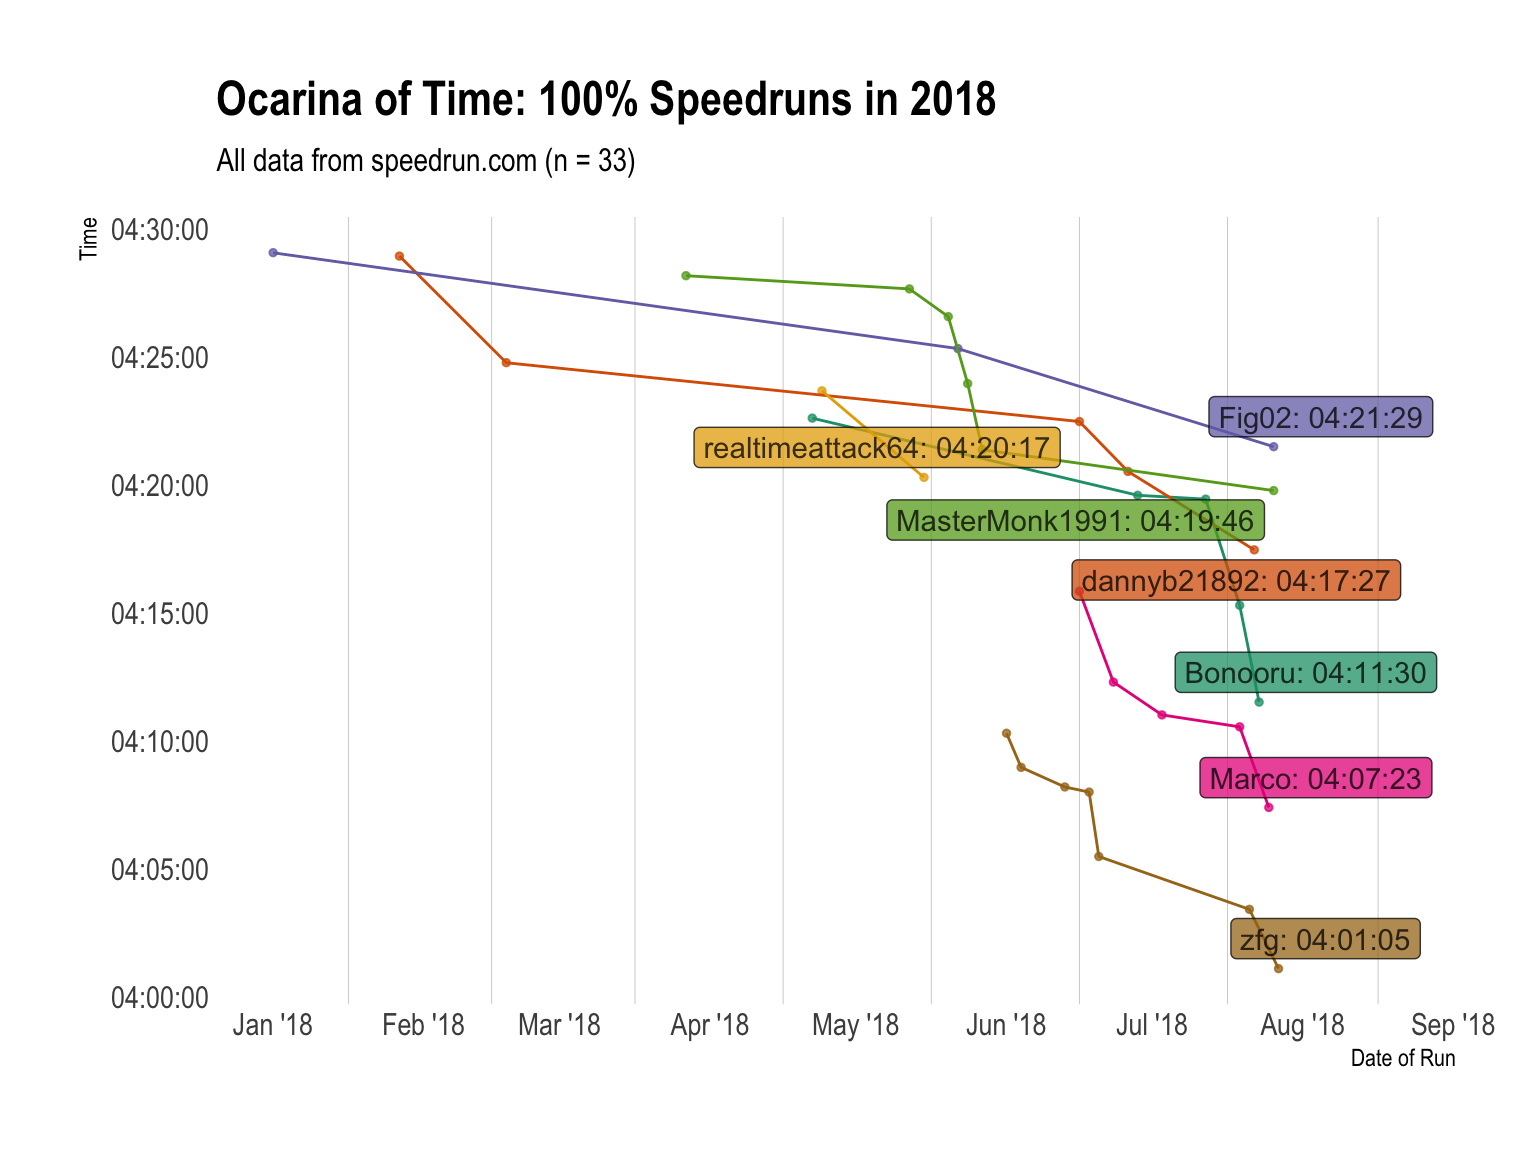
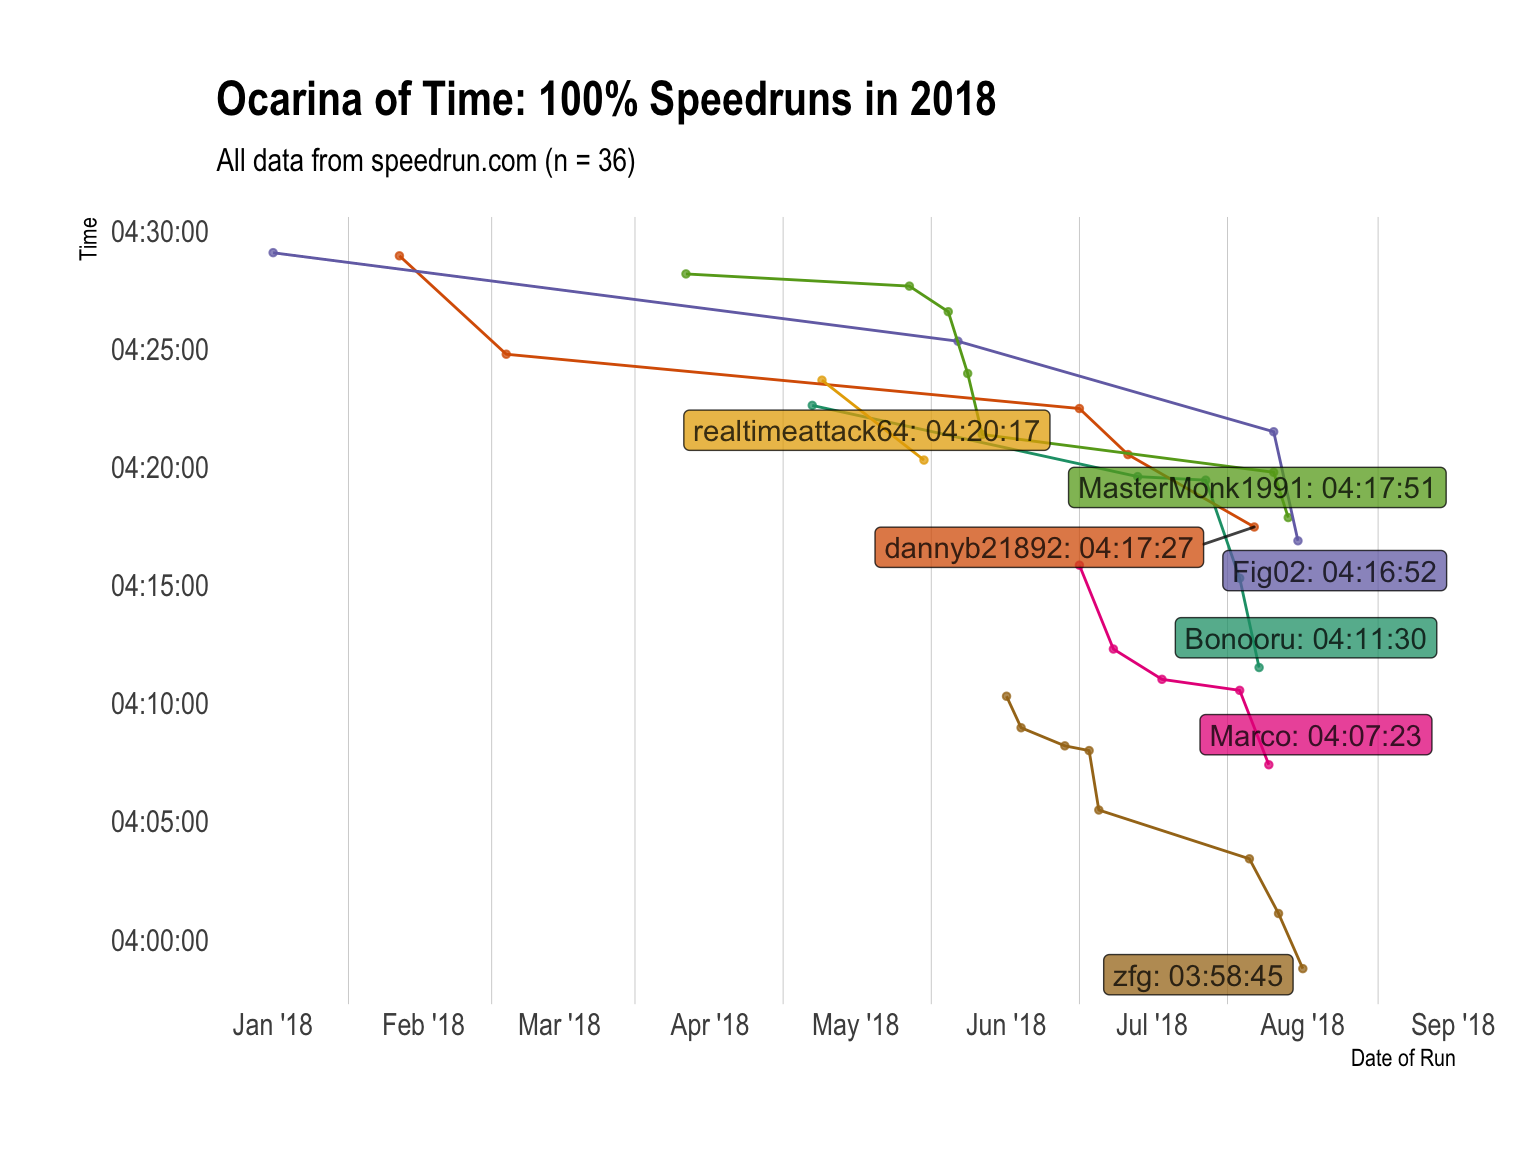
Rebuild everything

diff --git a/docs/articles/ocarina-of-time-100-.html b/docs/articles/ocarina-of-time-100-.html
@@ -82,7 +82,7 @@
       <h1>Ocarina of Time 100%</h1>
                         <h4 class="author">Lukas Burk</h4>
             
-            <h4 class="date">2018-07-28</h4>
+            <h4 class="date">2018-08-02</h4>
       
       <small class="dont-index">Source: <a href="https://github.com/jemus42/speedrunr/blob/master/vignettes/ocarina-of-time-100-.Rmd"><code>vignettes/ocarina-of-time-100-.Rmd</code></a></small>
       <div class="hidden name"><code>ocarina-of-time-100-.Rmd</code></div>
@@ -134,26 +134,26 @@
 <a class="sourceLine" id="cb3-4" data-line-number="4">oot100 &lt;-<span class="st"> </span><span class="kw"><a href="../reference/get_runs.html">get_runs</a></span>(<span class="dt">game =</span> <span class="st">"j1l9qz1g"</span>, <span class="dt">category =</span> <span class="st">"q255jw2o"</span>, <span class="dt">max =</span> <span class="ot">Inf</span>)</a></code></pre></div>
 <p>Note that I’m useing <code>max = Inf</code> to make sure I get <em>all</em> the runs.</p>
 <div class="sourceCode" id="cb4"><pre class="sourceCode r"><code class="sourceCode r"><a class="sourceLine" id="cb4-1" data-line-number="1"><span class="kw">str</span>(oot100)</a>
-<a class="sourceLine" id="cb4-2" data-line-number="2"><span class="co">#&gt; Classes 'tbl_df', 'tbl' and 'data.frame':    499 obs. of  22 variables:</span></a>
-<a class="sourceLine" id="cb4-3" data-line-number="3"><span class="co">#&gt;  $ id             : chr  "y43wqn2z" "mr8k6k2y" "z51jrdnm" "z03591ez" ...</span></a>
-<a class="sourceLine" id="cb4-4" data-line-number="4"><span class="co">#&gt;  $ weblink        : chr  "https://www.speedrun.com/oot/run/y43wqn2z" "https://www.speedrun.com/oot/run/mr8k6k2y" "https://www.speedrun.com/oot/run/z51jrdnm" "https://www.speedrun.com/oot/run/z03591ez" ...</span></a>
+<a class="sourceLine" id="cb4-2" data-line-number="2"><span class="co">#&gt; Classes 'tbl_df', 'tbl' and 'data.frame':    503 obs. of  22 variables:</span></a>
+<a class="sourceLine" id="cb4-3" data-line-number="3"><span class="co">#&gt;  $ id             : chr  "m3o52kwm" "y892o4dm" "zq3wddxy" "zg7we9jz" ...</span></a>
+<a class="sourceLine" id="cb4-4" data-line-number="4"><span class="co">#&gt;  $ weblink        : chr  "https://www.speedrun.com/oot/run/m3o52kwm" "https://www.speedrun.com/oot/run/y892o4dm" "https://www.speedrun.com/oot/run/zq3wddxy" "https://www.speedrun.com/oot/run/zg7we9jz" ...</span></a>
 <a class="sourceLine" id="cb4-5" data-line-number="5"><span class="co">#&gt;  $ game           : chr  "j1l9qz1g" "j1l9qz1g" "j1l9qz1g" "j1l9qz1g" ...</span></a>
 <a class="sourceLine" id="cb4-6" data-line-number="6"><span class="co">#&gt;  $ level          : logi  NA NA NA NA NA NA ...</span></a>
 <a class="sourceLine" id="cb4-7" data-line-number="7"><span class="co">#&gt;  $ category       : chr  "q255jw2o" "q255jw2o" "q255jw2o" "q255jw2o" ...</span></a>
-<a class="sourceLine" id="cb4-8" data-line-number="8"><span class="co">#&gt;  $ videos         : chr  "https://www.youtube.com/watch?v=8LvwzNnpKXo" "https://youtu.be/maLzD-Ikxoc" "https://youtu.be/wYs40xjSptY" "https://www.youtube.com/watch?v=BnUVK1fpxWo" ...</span></a>
+<a class="sourceLine" id="cb4-8" data-line-number="8"><span class="co">#&gt;  $ videos         : chr  "https://www.youtube.com/watch?v=N8vs_cCeekM" "https://youtu.be/tgb6vU3KAgE" "https://youtu.be/VFZh_V_zatU" "https://youtu.be/TpstTIj7y-A" ...</span></a>
 <a class="sourceLine" id="cb4-9" data-line-number="9"><span class="co">#&gt;  $ status         : chr  "verified" "verified" "verified" "verified" ...</span></a>
-<a class="sourceLine" id="cb4-10" data-line-number="10"><span class="co">#&gt;  $ comment        : chr  "3rd try dampe" "7th dampe" "Really bad, will sub 4:15 soon!" NA ...</span></a>
-<a class="sourceLine" id="cb4-11" data-line-number="11"><span class="co">#&gt;  $ player_id      : chr  "e8e5v680" "zxz9r448" "1xym2kmx" "v819rrxp" ...</span></a>
-<a class="sourceLine" id="cb4-12" data-line-number="12"><span class="co">#&gt;  $ player_url     : chr  "https://www.speedrun.com/user/zfg" "https://www.speedrun.com/user/Fig02" "https://www.speedrun.com/user/MasterMonk1991" "https://www.speedrun.com/user/Marco" ...</span></a>
-<a class="sourceLine" id="cb4-13" data-line-number="13"><span class="co">#&gt;  $ player_name    : chr  "zfg" "Fig02" "MasterMonk1991" "Marco" ...</span></a>
+<a class="sourceLine" id="cb4-10" data-line-number="10"><span class="co">#&gt;  $ comment        : chr  "1st try dampe" "6th dampe, decent fishing" "Second run on new equip dupe route, and I got pb twice in the day!" "This run was great until fishing, lost 2 minutes to fishing, got 3rd try Dampe, and then Adult 2 onward was a d"| __truncated__ ...</span></a>
+<a class="sourceLine" id="cb4-11" data-line-number="11"><span class="co">#&gt;  $ player_id      : chr  "e8e5v680" "zxz9r448" "68wq9z8g" "1xym2kmx" ...</span></a>
+<a class="sourceLine" id="cb4-12" data-line-number="12"><span class="co">#&gt;  $ player_url     : chr  "https://www.speedrun.com/user/zfg" "https://www.speedrun.com/user/Fig02" "https://www.speedrun.com/user/Cma" "https://www.speedrun.com/user/MasterMonk1991" ...</span></a>
+<a class="sourceLine" id="cb4-13" data-line-number="13"><span class="co">#&gt;  $ player_name    : chr  "zfg" "Fig02" "Cma" "MasterMonk1991" ...</span></a>
 <a class="sourceLine" id="cb4-14" data-line-number="14"><span class="co">#&gt;  $ player_role    : chr  "user" "user" "user" "user" ...</span></a>
 <a class="sourceLine" id="cb4-15" data-line-number="15"><span class="co">#&gt;  $ player_signup  : POSIXct, format: "2015-02-17 03:55:57" "2016-02-04 09:35:14" ...</span></a>
-<a class="sourceLine" id="cb4-16" data-line-number="16"><span class="co">#&gt;  $ date           : Date, format: "2018-07-27" "2018-07-26" ...</span></a>
-<a class="sourceLine" id="cb4-17" data-line-number="17"><span class="co">#&gt;  $ submitted      : POSIXct, format: "2018-07-28 05:47:32" "2018-07-27 09:07:17" ...</span></a>
-<a class="sourceLine" id="cb4-18" data-line-number="18"><span class="co">#&gt;  $ time_primary   : int  14465 15689 15586 14843 20589 15090 15447 14604 15032 15317 ...</span></a>
-<a class="sourceLine" id="cb4-19" data-line-number="19"><span class="co">#&gt;  $ time_realtime  : int  14465 15689 15586 14843 20589 15090 15447 14604 15032 15317 ...</span></a>
+<a class="sourceLine" id="cb4-16" data-line-number="16"><span class="co">#&gt;  $ date           : Date, format: "2018-08-01" "2018-07-31" ...</span></a>
+<a class="sourceLine" id="cb4-17" data-line-number="17"><span class="co">#&gt;  $ submitted      : POSIXct, format: "2018-08-02 02:15:56" "2018-08-01 04:07:29" ...</span></a>
+<a class="sourceLine" id="cb4-18" data-line-number="18"><span class="co">#&gt;  $ time_primary   : int  14325 15412 16231 15471 14465 15689 15586 14843 20589 15090 ...</span></a>
+<a class="sourceLine" id="cb4-19" data-line-number="19"><span class="co">#&gt;  $ time_realtime  : int  14325 15412 16231 15471 14465 15689 15586 14843 20589 15090 ...</span></a>
 <a class="sourceLine" id="cb4-20" data-line-number="20"><span class="co">#&gt;  $ time_ingame    : int  0 0 0 0 0 0 0 0 0 0 ...</span></a>
-<a class="sourceLine" id="cb4-21" data-line-number="21"><span class="co">#&gt;  $ time_hms       : 'hms' num  04:01:05 04:21:29 04:19:46 04:07:23 ...</span></a>
+<a class="sourceLine" id="cb4-21" data-line-number="21"><span class="co">#&gt;  $ time_hms       : 'hms' num  03:58:45 04:16:52 04:30:31 04:17:51 ...</span></a>
 <a class="sourceLine" id="cb4-22" data-line-number="22"><span class="co">#&gt;   ..- attr(*, "units")= chr "secs"</span></a>
 <a class="sourceLine" id="cb4-23" data-line-number="23"><span class="co">#&gt;  $ system_platform: chr  "nzelreqp" "nzelreqp" "nzelreqp" "nzelreqp" ...</span></a>
 <a class="sourceLine" id="cb4-24" data-line-number="24"><span class="co">#&gt;  $ system_emulated: logi  FALSE FALSE FALSE FALSE FALSE FALSE ...</span></a>
@@ -182,73 +182,73 @@
 </tr></thead>
 <tbody>
 <tr class="odd">
+<td align="left">03:58:45</td>
+<td align="left">zfg</td>
+<td align="left">2018-08-01</td>
+<td align="left">Wii Virtual Console</td>
+<td align="left">JPN / NTSC</td>
+</tr>
+<tr class="even">
 <td align="left">04:01:05</td>
 <td align="left">zfg</td>
 <td align="left">2018-07-27</td>
 <td align="left">Wii Virtual Console</td>
 <td align="left">JPN / NTSC</td>
 </tr>
-<tr class="even">
+<tr class="odd">
 <td align="left">04:03:24</td>
 <td align="left">zfg</td>
 <td align="left">2018-07-21</td>
 <td align="left">Wii Virtual Console</td>
 <td align="left">JPN / NTSC</td>
 </tr>
-<tr class="odd">
+<tr class="even">
 <td align="left">04:05:28</td>
 <td align="left">zfg</td>
 <td align="left">2018-06-20</td>
 <td align="left">Wii Virtual Console</td>
 <td align="left">JPN / NTSC</td>
 </tr>
-<tr class="even">
+<tr class="odd">
 <td align="left">04:07:23</td>
 <td align="left">Marco</td>
 <td align="left">2018-07-25</td>
 <td align="left">Wii Virtual Console</td>
 <td align="left">JPN / NTSC</td>
 </tr>
-<tr class="odd">
+<tr class="even">
 <td align="left">04:07:59</td>
 <td align="left">zfg</td>
 <td align="left">2018-06-18</td>
 <td align="left">Wii Virtual Console</td>
 <td align="left">JPN / NTSC</td>
 </tr>
-<tr class="even">
+<tr class="odd">
 <td align="left">04:08:11</td>
 <td align="left">zfg</td>
 <td align="left">2018-06-13</td>
 <td align="left">Wii Virtual Console</td>
 <td align="left">JPN / NTSC</td>
 </tr>
-<tr class="odd">
+<tr class="even">
 <td align="left">04:08:57</td>
 <td align="left">zfg</td>
 <td align="left">2018-06-04</td>
 <td align="left">Wii Virtual Console</td>
 <td align="left">JPN / NTSC</td>
 </tr>
-<tr class="even">
+<tr class="odd">
 <td align="left">04:10:17</td>
 <td align="left">zfg</td>
 <td align="left">2018-06-01</td>
 <td align="left">Wii Virtual Console</td>
 <td align="left">JPN / NTSC</td>
 </tr>
-<tr class="odd">
+<tr class="even">
 <td align="left">04:10:32</td>
 <td align="left">Marco</td>
 <td align="left">2018-07-19</td>
 <td align="left">Wii Virtual Console</td>
-<td align="left">JPN / NTSC</td>
-</tr>
-<tr class="even">
-<td align="left">04:10:43</td>
-<td align="left">zfg</td>
-<td align="left">2017-12-27</td>
-<td align="left">Nintendo 64</td>
 <td align="left">JPN / NTSC</td>
 </tr>
 </tbody>

diff --git a/docs/index.html b/docs/index.html
@@ -330,84 +330,94 @@ Let’s get started:</p>
 </tr></thead>
 <tbody>
 <tr class="odd">
+<td align="left">2018-08-02 02:15:56</td>
+<td align="left">03:58:45</td>
+<td align="left"><a href="https://www.speedrun.com/user/zfg" class="uri">https://www.speedrun.com/user/zfg</a></td>
+</tr>
+<tr class="even">
 <td align="left">2018-07-28 05:47:32</td>
 <td align="left">04:01:05</td>
 <td align="left"><a href="https://www.speedrun.com/user/zfg" class="uri">https://www.speedrun.com/user/zfg</a></td>
 </tr>
-<tr class="even">
+<tr class="odd">
 <td align="left">2018-07-22 03:15:39</td>
 <td align="left">04:03:24</td>
 <td align="left"><a href="https://www.speedrun.com/user/zfg" class="uri">https://www.speedrun.com/user/zfg</a></td>
 </tr>
-<tr class="odd">
+<tr class="even">
 <td align="left">2018-06-21 02:28:51</td>
 <td align="left">04:05:28</td>
 <td align="left"><a href="https://www.speedrun.com/user/zfg" class="uri">https://www.speedrun.com/user/zfg</a></td>
 </tr>
-<tr class="even">
+<tr class="odd">
 <td align="left">2018-07-25 04:07:52</td>
 <td align="left">04:07:23</td>
 <td align="left"><a href="https://www.speedrun.com/user/Marco" class="uri">https://www.speedrun.com/user/Marco</a></td>
 </tr>
-<tr class="odd">
+<tr class="even">
 <td align="left">2018-06-19 05:20:57</td>
 <td align="left">04:07:59</td>
 <td align="left"><a href="https://www.speedrun.com/user/zfg" class="uri">https://www.speedrun.com/user/zfg</a></td>
 </tr>
-<tr class="even">
+<tr class="odd">
 <td align="left">2018-06-14 04:01:53</td>
 <td align="left">04:08:11</td>
 <td align="left"><a href="https://www.speedrun.com/user/zfg" class="uri">https://www.speedrun.com/user/zfg</a></td>
 </tr>
-<tr class="odd">
+<tr class="even">
 <td align="left">2018-06-05 03:41:59</td>
 <td align="left">04:08:57</td>
 <td align="left"><a href="https://www.speedrun.com/user/zfg" class="uri">https://www.speedrun.com/user/zfg</a></td>
 </tr>
-<tr class="even">
+<tr class="odd">
 <td align="left">2018-06-02 03:35:41</td>
 <td align="left">04:10:17</td>
 <td align="left"><a href="https://www.speedrun.com/user/zfg" class="uri">https://www.speedrun.com/user/zfg</a></td>
 </tr>
-<tr class="odd">
+<tr class="even">
 <td align="left">2018-07-20 01:17:13</td>
 <td align="left">04:10:32</td>
 <td align="left"><a href="https://www.speedrun.com/user/Marco" class="uri">https://www.speedrun.com/user/Marco</a></td>
 </tr>
-<tr class="even">
+<tr class="odd">
 <td align="left">2017-12-28 02:05:48</td>
 <td align="left">04:10:43</td>
 <td align="left"><a href="https://www.speedrun.com/user/zfg" class="uri">https://www.speedrun.com/user/zfg</a></td>
 </tr>
-<tr class="odd">
+<tr class="even">
 <td align="left">2018-07-03 02:09:52</td>
 <td align="left">04:11:00</td>
 <td align="left"><a href="https://www.speedrun.com/user/Marco" class="uri">https://www.speedrun.com/user/Marco</a></td>
 </tr>
-<tr class="even">
+<tr class="odd">
 <td align="left">2017-12-14 04:12:51</td>
 <td align="left">04:11:08</td>
 <td align="left"><a href="https://www.speedrun.com/user/zfg" class="uri">https://www.speedrun.com/user/zfg</a></td>
 </tr>
-<tr class="odd">
+<tr class="even">
 <td align="left">2018-07-23 02:36:34</td>
 <td align="left">04:11:30</td>
 <td align="left"><a href="https://www.speedrun.com/user/Bonooru" class="uri">https://www.speedrun.com/user/Bonooru</a></td>
 </tr>
-<tr class="even">
+<tr class="odd">
 <td align="left">2018-06-23 02:17:28</td>
 <td align="left">04:12:17</td>
 <td align="left"><a href="https://www.speedrun.com/user/Marco" class="uri">https://www.speedrun.com/user/Marco</a></td>
 </tr>
-<tr class="odd">
+<tr class="even">
 <td align="left">2018-07-19 23:30:26</td>
 <td align="left">04:15:17</td>
 <td align="left"><a href="https://www.speedrun.com/user/Bonooru" class="uri">https://www.speedrun.com/user/Bonooru</a></td>
 </tr>
-<tr class="even">
+<tr class="odd">
 <td align="left">2018-06-16 04:07:34</td>
 <td align="left">04:15:50</td>
 <td align="left"><a href="https://www.speedrun.com/user/Marco" class="uri">https://www.speedrun.com/user/Marco</a></td>
+</tr>
+<tr class="even">
+<td align="left">2018-08-01 04:07:29</td>
+<td align="left">04:16:52</td>
+<td align="left"><a href="https://www.speedrun.com/user/Fig02" class="uri">https://www.speedrun.com/user/Fig02</a></td>
 </tr>
 <tr class="odd">
 <td align="left">2018-07-23 01:22:52</td>
@@ -415,19 +425,9 @@ Let’s get started:</p>
 <td align="left"><a href="https://www.speedrun.com/user/dannyb21892" class="uri">https://www.speedrun.com/user/dannyb21892</a></td>
 </tr>
 <tr class="even">
-<td align="left">2017-10-30 04:09:49</td>
-<td align="left">04:17:44</td>
-<td align="left"><a href="https://www.speedrun.com/user/Marco" class="uri">https://www.speedrun.com/user/Marco</a></td>
-</tr>
-<tr class="odd">
-<td align="left">2017-12-14 22:50:33</td>
-<td align="left">04:18:08</td>
-<td align="left"><a href="https://www.speedrun.com/user/cheese05" class="uri">https://www.speedrun.com/user/cheese05</a></td>
-</tr>
-<tr class="even">
-<td align="left">2018-07-12 20:26:37</td>
-<td align="left">04:19:26</td>
-<td align="left"><a href="https://www.speedrun.com/user/Bonooru" class="uri">https://www.speedrun.com/user/Bonooru</a></td>
+<td align="left">2018-07-29 23:49:50</td>
+<td align="left">04:17:51</td>
+<td align="left"><a href="https://www.speedrun.com/user/MasterMonk1991" class="uri">https://www.speedrun.com/user/MasterMonk1991</a></td>
 </tr>
 </tbody>
 </table>
@@ -535,27 +535,27 @@ Let’s get started:</p>
 </tr></thead>
 <tbody>
 <tr class="odd">
-<td align="right">24385</td>
+<td align="right">15137</td>
 <td align="left">JPN / NTSC</td>
 <td align="left">Wii Virtual Console</td>
 </tr>
 <tr class="even">
-<td align="right">16572</td>
-<td align="left">JPN / NTSC</td>
-<td align="left">Wii Virtual Console</td>
-</tr>
-<tr class="odd">
-<td align="right">19998</td>
+<td align="right">18693</td>
 <td align="left">JPN / NTSC</td>
 <td align="left">Nintendo 64</td>
 </tr>
+<tr class="odd">
+<td align="right">15886</td>
+<td align="left">JPN / NTSC</td>
+<td align="left">Wii Virtual Console</td>
+</tr>
 <tr class="even">
-<td align="right">15631</td>
+<td align="right">21825</td>
 <td align="left">JPN / NTSC</td>
 <td align="left">Wii Virtual Console</td>
 </tr>
 <tr class="odd">
-<td align="right">24422</td>
+<td align="right">18431</td>
 <td align="left">JPN / NTSC</td>
 <td align="left">Wii Virtual Console</td>
 </tr>

diff --git a/docs/reference/get_runs.html b/docs/reference/get_runs.html
@@ -123,8 +123,8 @@
     
     </div>
 
-    <pre class="usage"><span class='fu'>get_runs</span>(<span class='no'>game</span>, <span class='no'>category</span>, <span class='kw'>max</span> <span class='kw'>=</span> <span class='fl'>100</span>, <span class='kw'>status</span> <span class='kw'>=</span> <span class='st'>"verified"</span>, <span class='kw'>offset</span> <span class='kw'>=</span> <span class='kw'>NULL</span>,
-  <span class='kw'>verbose</span> <span class='kw'>=</span> <span class='fl'>FALSE</span>, <span class='no'>...</span>)</pre>
+    <pre class="usage"><span class='fu'>get_runs</span>(<span class='no'>game</span>, <span class='no'>category</span>, <span class='kw'>max</span> <span class='kw'>=</span> <span class='fl'>100</span>, <span class='kw'>status</span> <span class='kw'>=</span> <span class='st'>"verified"</span>,
+  <span class='kw'>offset</span> <span class='kw'>=</span> <span class='kw'>NULL</span>, <span class='kw'>verbose</span> <span class='kw'>=</span> <span class='fl'>FALSE</span>, <span class='no'>...</span>)</pre>
     
     <h2 class="hasAnchor" id="arguments"><a class="anchor" href="#arguments"></a>Arguments</h2>
     <table class="ref-arguments">
